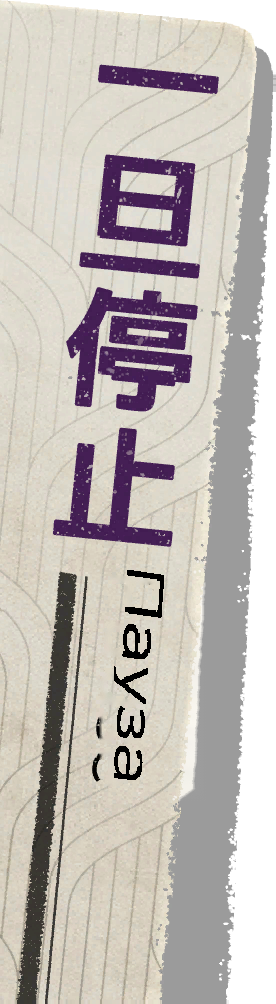
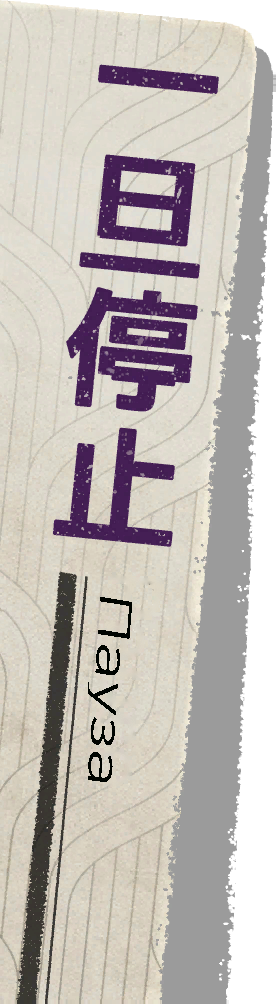
Publish Train 45 localization 1.1.3

Changed region(s): [[0.3188, 0.5558, 0.6087, 0.8028], [0.6377, 0.5558, 0.7536, 0.8028]]

diff --git a/Train 45/README.md b/Train 45/README.md
@@ -2,21 +2,16 @@
 
 # Русификатор Train 45
 
-Версия русификатора: **1.1.2**
+Версия русификатора: **1.1.3**
 Поддерживаемая Steam-версия игры: **1.0.5.1**
 Автор: **Disketa**
 
-Скачать готовый установщик и PDF-инструкцию: [Train 45 — русификатор 1.1.2](https://github.com/Disketusha/game-russian-localizations/releases/tag/train45-v1.1.2).
-
-## Что исправлено в 1.1.2
-
-- боковая вкладка меню паузы теперь использует утверждённую русскую текстуру «Пауза»;
-- `(Shift)` больше не накладывается на заголовок «ЗАМЕТКИ».
+Скачать готовый установщик и PDF-инструкцию: [Train 45 — русификатор 1.1.3](https://github.com/Disketusha/game-russian-localizations/releases/tag/train45-v1.1.3).
 
 ## Установка
 
-1. Запустите `Train45-RU-Patcher-1.1.2.exe`.
-2. Проверьте путь к штатному `Train45.exe`. Обычно установщик находит Steam-версию автоматически; при необходимости нажмите «Обзор».
+1. Запустите `Train45-RU-Patcher-1.1.3.exe`.
+2. Проверьте путь к штатному `Train45.exe`. Обычно установщик находит Steam-версию автоматически; при необходимости нажмите «Обзор». После нажатия «Далее» проверка большого файла может занять некоторое время; окно установщика может ненадолго перестать отвечать.
 3. Выберите, создавать ли резервную копию оригинального EXE. Галочка включена по умолчанию.
 4. Если резервная копия включена, проверьте автоматически предложенную папку или укажите другую. Папка должна находиться вне каталога самой игры.
 5. Проверьте параметры и нажмите «Установить».

diff --git a/README.md b/README.md
@@ -8,4 +8,4 @@ PDF-инструкции публикуются в разделе Releases.
 
 | Игра | Русификатор | Поддерживаемая версия | Инструкция |
 | --- | --- | --- | --- |
-| Train 45 | 1.1.2 | Steam 1.0.5.1 | [README](./Train%2045/README.md) |
+| Train 45 | 1.1.3 | Steam 1.0.5.1 | [README](./Train%2045/README.md) |